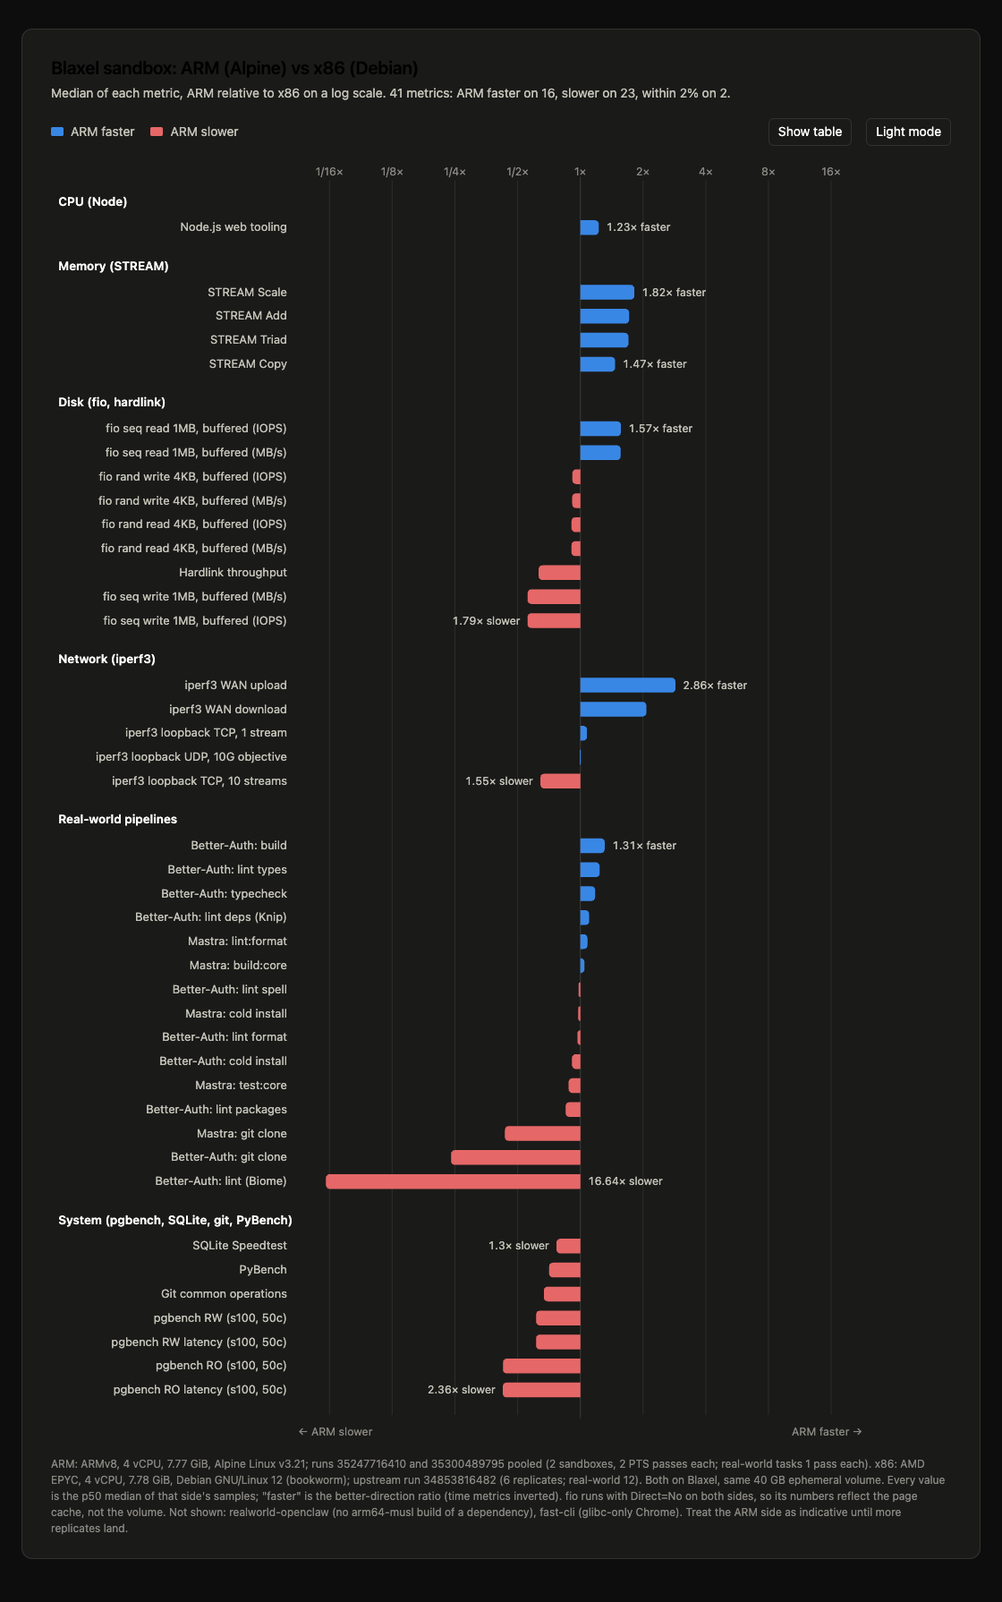
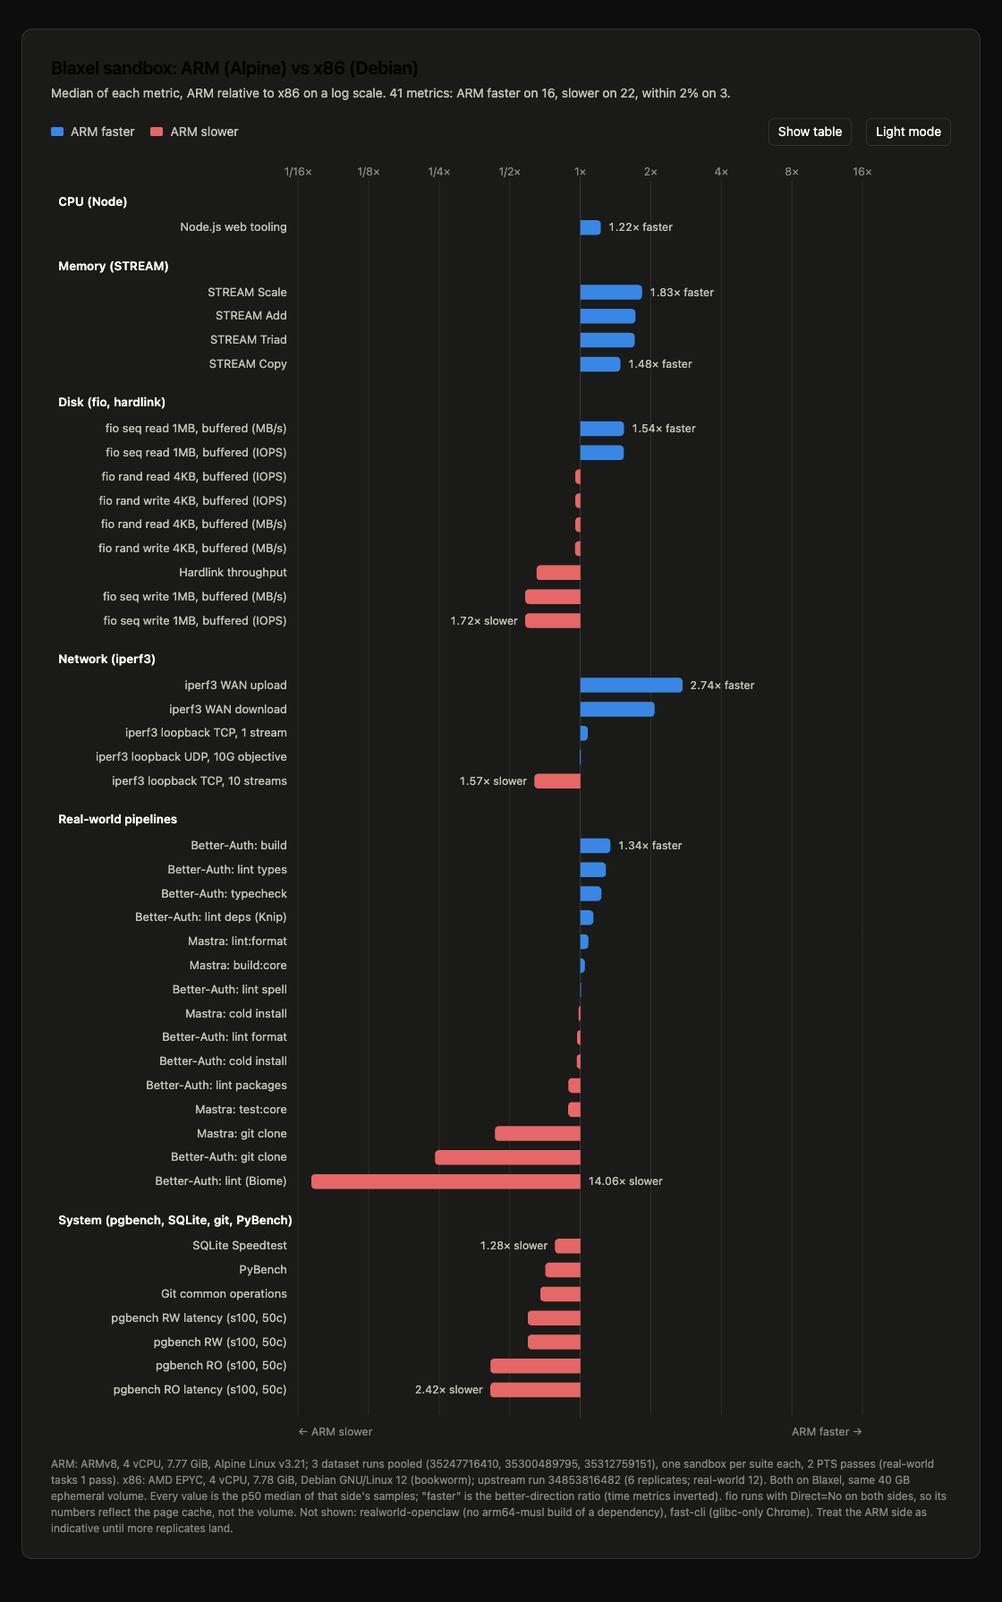
docs(chart): pool the three ARMv8 Alpine runs; exclude the x86 Alpine run
Run 35398728363 booted blaxel/base-image on Intel Xeon hosts (every cell
reported x86_64), so the pool now filters Alpine runs by cpuModel ARMv8 and
lists the runs it used in the footnote.

diff --git a/docs/arm-vs-x86.html b/docs/arm-vs-x86.html
@@ -87,7 +87,7 @@
   </div>
 </div>
 
-<script id="data" type="application/json">{"rows":[{"id":"node_web_tooling_runs_per_s","dimension":"cpu","label":"Node.js web tooling","unit":"runs/s","direction":"HIB","arm":24.795,"x86":20.22,"nArm":4,"nX86":6,"ratio":1.2262611275964392,"pct":22.626112759643924},{"id":"fio_type_sequential_read_engine_linux_aio_direct_no_block_size_1mb_job_count_1_disk_target_default_test_directory_iops","dimension":"disk","label":"fio seq read 1MB, buffered (IOPS)","unit":"IOPS","direction":"HIB","arm":11700,"x86":7469.5,"nArm":2,"nX86":6,"ratio":1.5663699042773946,"pct":56.63699042773946},{"id":"fio_type_sequential_read_engine_linux_aio_direct_no_block_size_1mb_job_count_1_disk_target_default_test_directory_mb_per_s","dimension":"disk","label":"fio seq read 1MB, buffered (MB/s)","unit":"MB/s","direction":"HIB","arm":12240.6567936,"x86":7834.435584000001,"nArm":2,"nX86":6,"ratio":1.5624171853041555,"pct":56.241718530415554},{"id":"fio_type_random_write_engine_linux_aio_direct_no_block_size_4kb_job_count_1_disk_target_default_test_directory_iops","dimension":"disk","label":"fio rand write 4KB, buffered (IOPS)","unit":"IOPS","direction":"HIB","arm":273000,"x86":298000,"nArm":2,"nX86":6,"ratio":0.9161073825503355,"pct":-8.389261744966447},{"id":"fio_type_random_write_engine_linux_aio_direct_no_block_size_4kb_job_count_1_disk_target_default_test_directory_mb_per_s","dimension":"disk","label":"fio rand write 4KB, buffered (MB/s)","unit":"MB/s","direction":"HIB","arm":1116.73344,"x86":1221.0667520000002,"nArm":2,"nX86":6,"ratio":0.914555603263203,"pct":-8.544439673679705},{"id":"fio_type_random_read_engine_linux_aio_direct_no_block_size_4kb_job_count_1_disk_target_default_test_directory_iops","dimension":"disk","label":"fio rand read 4KB, buffered (IOPS)","unit":"IOPS","direction":"HIB","arm":52450,"x86":57800,"nArm":2,"nX86":6,"ratio":0.907439446366782,"pct":-9.256055363321803},{"id":"fio_type_random_read_engine_linux_aio_direct_no_block_size_4kb_job_count_1_disk_target_default_test_directory_mb_per_s","dimension":"disk","label":"fio rand read 4KB, buffered (MB/s)","unit":"MB/s","direction":"HIB","arm":214.95808,"x86":236.97817600000002,"nArm":2,"nX86":6,"ratio":0.907079646017699,"pct":-9.292035398230103},{"id":"hardlink_bogo_ops_per_s","dimension":"disk","label":"Hardlink throughput","unit":"bogo ops/s","direction":"HIB","arm":12.79,"x86":20.27,"nArm":2,"nX86":6,"ratio":0.6309817464232856,"pct":-36.901825357671434},{"id":"fio_type_sequential_write_engine_linux_aio_direct_no_block_size_1mb_job_count_1_disk_target_default_test_directory_mb_per_s","dimension":"disk","label":"fio seq write 1MB, buffered (MB/s)","unit":"MB/s","direction":"HIB","arm":1947.72992,"x86":3489.6609280000002,"nArm":2,"nX86":6,"ratio":0.5581430288461539,"pct":-44.18569711538461},{"id":"fio_type_sequential_write_engine_linux_aio_direct_no_block_size_1mb_job_count_1_disk_target_default_test_directory_iops","dimension":"disk","label":"fio seq write 1MB, buffered (IOPS)","unit":"IOPS","direction":"HIB","arm":1856,"x86":3326,"nArm":2,"nX86":6,"ratio":0.5580276608538786,"pct":-44.19723391461214},{"id":"stream_type_scale","dimension":"memory","label":"STREAM Scale","unit":"MB/s","direction":"HIB","arm":137756.25,"x86":75752.85,"nArm":4,"nX86":6,"ratio":1.8184959377765983,"pct":81.84959377765983},{"id":"stream_type_add","dimension":"memory","label":"STREAM Add","unit":"MB/s","direction":"HIB","arm":140072.15000000002,"x86":81589.65,"nArm":4,"nX86":6,"ratio":1.7167882200744828,"pct":71.67882200744829},{"id":"stream_type_triad","dimension":"memory","label":"STREAM Triad","unit":"MB/s","direction":"HIB","arm":140028.65000000002,"x86":82211.5,"nArm":4,"nX86":6,"ratio":1.703273264689247,"pct":70.3273264689247},{"id":"stream_type_copy","dimension":"memory","label":"STREAM Copy","unit":"MB/s","direction":"HIB","arm":138765.55,"x86":94423.04999999999,"nArm":4,"nX86":6,"ratio":1.4696152051855982,"pct":46.961520518559816},{"id":"iperf_wan_direction_upload","dimension":"network","label":"iperf3 WAN upload","unit":"Mbits/sec","direction":"HIB","arm":6447.9400000000005,"x86":2250.645,"nArm":4,"nX86":6,"ratio":2.86492983122616,"pct":186.492983122616},{"id":"iperf_wan_direction_download","dimension":"network","label":"iperf3 WAN download","unit":"Mbits/sec","direction":"HIB","arm":3896.505,"x86":1877.52,"nArm":4,"nX86":6,"ratio":2.075346733989518,"pct":107.53467339895182},{"id":"iperf_server_address_localhost_server_port_5201_duration_10_seconds_test_tcp_parallel_1","dimension":"network","label":"iperf3 loopback TCP, 1 stream","unit":"Mbits/sec","direction":"HIB","arm":92958.5,"x86":86368,"nArm":4,"nX86":6,"ratio":1.0763071971100409,"pct":7.630719711004086},{"id":"iperf_server_address_localhost_server_port_5201_duration_10_seconds_test_udp_10000mbit_objective_parallel_1","dimension":"network","label":"iperf3 loopback UDP, 10G objective","unit":"Mbits/sec","direction":"HIB","arm":9999,"x86":9999,"nArm":4,"nX86":6,"ratio":1,"pct":0},{"id":"iperf_server_address_localhost_server_port_5201_duration_10_seconds_test_tcp_parallel_10","dimension":"network","label":"iperf3 loopback TCP, 10 streams","unit":"Mbits/sec","direction":"HIB","arm":66917,"x86":103996.5,"nArm":4,"nX86":6,"ratio":0.643454347021294,"pct":-35.6545652978706},{"id":"realworld_better_auth_task_build","dimension":"realworld","label":"Better-Auth: build","unit":"Seconds","direction":"LIB","arm":58.342,"x86":76.38149999999999,"nArm":2,"nX86":12,"ratio":1.3092026327517052,"pct":30.920263275170523},{"id":"realworld_better_auth_task_lint_types","dimension":"realworld","label":"Better-Auth: lint types","unit":"Seconds","direction":"LIB","arm":29.746499999999997,"x86":36.855999999999995,"nArm":2,"nX86":12,"ratio":1.2390029079051317,"pct":23.900290790513168},{"id":"realworld_better_auth_task_typecheck","dimension":"realworld","label":"Better-Auth: typecheck","unit":"Seconds","direction":"LIB","arm":42.5235,"x86":50.1205,"nArm":2,"nX86":12,"ratio":1.1786541559373054,"pct":17.86541559373054},{"id":"realworld_better_auth_task_lint_deps_knip","dimension":"realworld","label":"Better-Auth: lint deps (Knip)","unit":"Seconds","direction":"LIB","arm":10.133500000000002,"x86":11.1785,"nArm":2,"nX86":12,"ratio":1.103123303893028,"pct":10.312330389302794},{"id":"realworld_mastra_task_lint_format","dimension":"realworld","label":"Mastra: lint:format","unit":"Seconds","direction":"LIB","arm":87.0995,"x86":94.27250000000001,"nArm":2,"nX86":12,"ratio":1.0823540892886871,"pct":8.235408928868715},{"id":"realworld_mastra_task_build_core","dimension":"realworld","label":"Mastra: build:core","unit":"Seconds","direction":"LIB","arm":72.5695,"x86":75.985,"nArm":2,"nX86":12,"ratio":1.0470652271270988,"pct":4.706522712709882},{"id":"realworld_better_auth_task_lint_spell","dimension":"realworld","label":"Better-Auth: lint spell","unit":"Seconds","direction":"LIB","arm":7.73,"x86":7.577999999999999,"nArm":2,"nX86":12,"ratio":0.9803363518758084,"pct":-1.9663648124191635},{"id":"realworld_mastra_task_cold_install","dimension":"realworld","label":"Mastra: cold install","unit":"Seconds","direction":"LIB","arm":41.8275,"x86":40.8705,"nArm":2,"nX86":12,"ratio":0.977120315581854,"pct":-2.287968441814603},{"id":"realworld_better_auth_task_lint_format","dimension":"realworld","label":"Better-Auth: lint format","unit":"Seconds","direction":"LIB","arm":3.318,"x86":3.218,"nArm":2,"nX86":12,"ratio":0.9698613622664255,"pct":-3.0138637733574503},{"id":"realworld_better_auth_task_cold_install","dimension":"realworld","label":"Better-Auth: cold install","unit":"Seconds","direction":"LIB","arm":14.564,"x86":13.283,"nArm":2,"nX86":12,"ratio":0.9120433946717934,"pct":-8.795660532820659},{"id":"realworld_mastra_task_test_core","dimension":"realworld","label":"Mastra: test:core","unit":"Seconds","direction":"LIB","arm":1067.901,"x86":938.6735,"nArm":2,"nX86":12,"ratio":0.8789892508762516,"pct":-12.101074912374843},{"id":"realworld_better_auth_task_lint_packages","dimension":"realworld","label":"Better-Auth: lint packages","unit":"Seconds","direction":"LIB","arm":3.25,"x86":2.7635,"nArm":2,"nX86":12,"ratio":0.8503076923076923,"pct":-14.969230769230768},{"id":"realworld_mastra_task_git_clone","dimension":"realworld","label":"Mastra: git clone","unit":"Seconds","direction":"LIB","arm":5.9725,"x86":2.595,"nArm":2,"nX86":12,"ratio":0.4344914190037673,"pct":-56.55085809962327},{"id":"realworld_better_auth_task_git_clone","dimension":"realworld","label":"Better-Auth: git clone","unit":"Seconds","direction":"LIB","arm":3.2085,"x86":0.7685,"nArm":2,"nX86":12,"ratio":0.23952002493376967,"pct":-76.04799750662303},{"id":"realworld_better_auth_task_lint_biome","dimension":"realworld","label":"Better-Auth: lint (Biome)","unit":"Seconds","direction":"LIB","arm":56.6875,"x86":3.4065000000000003,"nArm":2,"nX86":12,"ratio":0.06009261300992283,"pct":-93.99073869900772},{"id":"sqlite_speedtest_seconds","dimension":"system","label":"SQLite Speedtest","unit":"Seconds","direction":"LIB","arm":52.3055,"x86":40.1845,"nArm":4,"nX86":6,"ratio":0.7682652875892593,"pct":-23.173471241074072},{"id":"pybench_milliseconds","dimension":"system","label":"PyBench","unit":"Milliseconds","direction":"LIB","arm":668,"x86":473.5,"nArm":4,"nX86":6,"ratio":0.7088323353293413,"pct":-29.11676646706587},{"id":"git_seconds","dimension":"system","label":"Git common operations","unit":"Seconds","direction":"LIB","arm":61.471000000000004,"x86":41.0995,"nArm":4,"nX86":6,"ratio":0.6685998275609637,"pct":-33.14001724390363},{"id":"pgbench_scaling_factor_100_clients_50_mode_read_write","dimension":"system","label":"pgbench RW (s100, 50c)","unit":"TPS","direction":"HIB","arm":15382.6655245,"x86":25073.764670999997,"nArm":4,"nX86":6,"ratio":0.6134964464387511,"pct":-38.65035535612489},{"id":"pgbench_scaling_factor_100_clients_50_mode_read_write_average_latency","dimension":"system","label":"pgbench RW latency (s100, 50c)","unit":"ms","direction":"LIB","arm":3.2515,"x86":1.9945,"nArm":4,"nX86":6,"ratio":0.613409195755805,"pct":-38.6590804244195},{"id":"pgbench_scaling_factor_100_clients_50_mode_read_only","dimension":"system","label":"pgbench RO (s100, 50c)","unit":"TPS","direction":"HIB","arm":137940.54658249998,"x86":324321.7702985,"nArm":4,"nX86":6,"ratio":0.4253200346542939,"pct":-57.46799653457061},{"id":"pgbench_scaling_factor_100_clients_50_mode_read_only_average_latency","dimension":"system","label":"pgbench RO latency (s100, 50c)","unit":"ms","direction":"LIB","arm":0.363,"x86":0.154,"nArm":4,"nX86":6,"ratio":0.42424242424242425,"pct":-57.57575757575757}],"armSpec":{"cpuModel":"ARMv8","detectedIsolation":"unknown","diskGb":40.2,"hostMemoryGb":8,"hostVcpus":4,"kernel":"6.1.166","memoryGb":7.77,"os":"Alpine Linux v3.21","vcpus":4,"virtualization":"unknown","asnSource":"ipinfo","city":"Ashburn","country":"US","egressAsn":"AS14618","egressOrg":"AS14618 Amazon.com, Inc.","egressOrgName":"Amazon.com, Inc.","geoSource":"ipinfo","location":"39.0437,-77.4875","region":"Virginia","timezone":"America/New_York"},"x86Spec":{"cpuModel":"AMD EPYC","detectedIsolation":"vm","diskGb":40.2,"hostMemoryGb":8,"hostVcpus":4,"kernel":"6.1.166","memoryGb":7.78,"os":"Debian GNU/Linux 12 (bookworm)","vcpus":4,"virtualization":"kvm","asnSource":"cymru","city":"Ashburn","country":"US","egressAsn":"AS396356","egressOrg":"AS396356 Latitude.sh","egressOrgName":"Latitude.sh","geoSource":"ipinfo","location":"39.0437,-77.4875","networkPrefix":"2605:6440:d000::/36","region":"Virginia","timezone":"America/New_York"}}</script>
+<script id="data" type="application/json">{"rows":[{"id":"node_web_tooling_runs_per_s","dimension":"cpu","label":"Node.js web tooling","unit":"runs/s","direction":"HIB","arm":24.745,"x86":20.22,"nArm":6,"nX86":6,"ratio":1.223788328387735,"pct":22.378832838773512},{"id":"fio_type_sequential_read_engine_linux_aio_direct_no_block_size_1mb_job_count_1_disk_target_default_test_directory_mb_per_s","dimension":"disk","label":"fio seq read 1MB, buffered (MB/s)","unit":"MB/s","direction":"HIB","arm":12025.9084288,"x86":7834.435584000001,"nArm":4,"nX86":6,"ratio":1.535006357491802,"pct":53.500635749180205},{"id":"fio_type_sequential_read_engine_linux_aio_direct_no_block_size_1mb_job_count_1_disk_target_default_test_directory_iops","dimension":"disk","label":"fio seq read 1MB, buffered (IOPS)","unit":"IOPS","direction":"HIB","arm":11450,"x86":7469.5,"nArm":4,"nX86":6,"ratio":1.532900461878305,"pct":53.29004618783051},{"id":"fio_type_random_read_engine_linux_aio_direct_no_block_size_4kb_job_count_1_disk_target_default_test_directory_iops","dimension":"disk","label":"fio rand read 4KB, buffered (IOPS)","unit":"IOPS","direction":"HIB","arm":55000,"x86":57800,"nArm":4,"nX86":6,"ratio":0.9515570934256056,"pct":-4.844290657439442},{"id":"fio_type_random_write_engine_linux_aio_direct_no_block_size_4kb_job_count_1_disk_target_default_test_directory_iops","dimension":"disk","label":"fio rand write 4KB, buffered (IOPS)","unit":"IOPS","direction":"HIB","arm":283500,"x86":298000,"nArm":4,"nX86":6,"ratio":0.9513422818791947,"pct":-4.865771812080533},{"id":"fio_type_random_read_engine_linux_aio_direct_no_block_size_4kb_job_count_1_disk_target_default_test_directory_mb_per_s","dimension":"disk","label":"fio rand read 4KB, buffered (MB/s)","unit":"MB/s","direction":"HIB","arm":225.44384,"x86":236.97817600000002,"nArm":4,"nX86":6,"ratio":0.9513274336283185,"pct":-4.867256637168149},{"id":"fio_type_random_write_engine_linux_aio_direct_no_block_size_4kb_job_count_1_disk_target_default_test_directory_mb_per_s","dimension":"disk","label":"fio rand write 4KB, buffered (MB/s)","unit":"MB/s","direction":"HIB","arm":1159.200768,"x86":1221.0667520000002,"nArm":4,"nX86":6,"ratio":0.949334478316874,"pct":-5.066552168312599},{"id":"hardlink_bogo_ops_per_s","dimension":"disk","label":"Hardlink throughput","unit":"bogo ops/s","direction":"HIB","arm":13.175,"x86":20.27,"nArm":4,"nX86":6,"ratio":0.6499753330044401,"pct":-35.00246669955599},{"id":"fio_type_sequential_write_engine_linux_aio_direct_no_block_size_1mb_job_count_1_disk_target_default_test_directory_mb_per_s","dimension":"disk","label":"fio seq write 1MB, buffered (MB/s)","unit":"MB/s","direction":"HIB","arm":2029.518848,"x86":3489.6609280000002,"nArm":4,"nX86":6,"ratio":0.5815805288461537,"pct":-41.84194711538463},{"id":"fio_type_sequential_write_engine_linux_aio_direct_no_block_size_1mb_job_count_1_disk_target_default_test_directory_iops","dimension":"disk","label":"fio seq write 1MB, buffered (IOPS)","unit":"IOPS","direction":"HIB","arm":1933.5,"x86":3326,"nArm":4,"nX86":6,"ratio":0.5813289236319904,"pct":-41.86710763680096},{"id":"stream_type_scale","dimension":"memory","label":"STREAM Scale","unit":"MB/s","direction":"HIB","arm":138921.3,"x86":75752.85,"nArm":6,"nX86":6,"ratio":1.8338755571572551,"pct":83.38755571572551},{"id":"stream_type_add","dimension":"memory","label":"STREAM Add","unit":"MB/s","direction":"HIB","arm":140233.5,"x86":81589.65,"nArm":6,"nX86":6,"ratio":1.7187657993385193,"pct":71.87657993385193},{"id":"stream_type_triad","dimension":"memory","label":"STREAM Triad","unit":"MB/s","direction":"HIB","arm":140225.05,"x86":82211.5,"nArm":6,"nX86":6,"ratio":1.705662224871216,"pct":70.5662224871216},{"id":"stream_type_copy","dimension":"memory","label":"STREAM Copy","unit":"MB/s","direction":"HIB","arm":139966.34999999998,"x86":94423.04999999999,"nArm":6,"nX86":6,"ratio":1.4823324389542596,"pct":48.23324389542596},{"id":"iperf_wan_direction_upload","dimension":"network","label":"iperf3 WAN upload","unit":"Mbits/sec","direction":"HIB","arm":6156.985000000001,"x86":2250.645,"nArm":6,"nX86":6,"ratio":2.735653557091412,"pct":173.5653557091412},{"id":"iperf_wan_direction_download","dimension":"network","label":"iperf3 WAN download","unit":"Mbits/sec","direction":"HIB","arm":3896.505,"x86":1877.52,"nArm":6,"nX86":6,"ratio":2.075346733989518,"pct":107.53467339895182},{"id":"iperf_server_address_localhost_server_port_5201_duration_10_seconds_test_tcp_parallel_1","dimension":"network","label":"iperf3 loopback TCP, 1 stream","unit":"Mbits/sec","direction":"HIB","arm":93002.5,"x86":86368,"nArm":6,"nX86":6,"ratio":1.0768166450537235,"pct":7.681664505372354},{"id":"iperf_server_address_localhost_server_port_5201_duration_10_seconds_test_udp_10000mbit_objective_parallel_1","dimension":"network","label":"iperf3 loopback UDP, 10G objective","unit":"Mbits/sec","direction":"HIB","arm":9999,"x86":9999,"nArm":6,"nX86":6,"ratio":1,"pct":0},{"id":"iperf_server_address_localhost_server_port_5201_duration_10_seconds_test_tcp_parallel_10","dimension":"network","label":"iperf3 loopback TCP, 10 streams","unit":"Mbits/sec","direction":"HIB","arm":66231.5,"x86":103996.5,"nArm":6,"nX86":6,"ratio":0.6368627790358329,"pct":-36.31372209641671},{"id":"realworld_better_auth_task_build","dimension":"realworld","label":"Better-Auth: build","unit":"Seconds","direction":"LIB","arm":56.838,"x86":76.38149999999999,"nArm":3,"nX86":12,"ratio":1.3438456666314786,"pct":34.384566663147865},{"id":"realworld_better_auth_task_lint_types","dimension":"realworld","label":"Better-Auth: lint types","unit":"Seconds","direction":"LIB","arm":28.66,"x86":36.855999999999995,"nArm":3,"nX86":12,"ratio":1.2859734822051638,"pct":28.597348220516384},{"id":"realworld_better_auth_task_typecheck","dimension":"realworld","label":"Better-Auth: typecheck","unit":"Seconds","direction":"LIB","arm":40.757,"x86":50.1205,"nArm":3,"nX86":12,"ratio":1.229739676619967,"pct":22.97396766199671},{"id":"realworld_better_auth_task_lint_deps_knip","dimension":"realworld","label":"Better-Auth: lint deps (Knip)","unit":"Seconds","direction":"LIB","arm":9.826,"x86":11.1785,"nArm":3,"nX86":12,"ratio":1.1376450234072868,"pct":13.76450234072868},{"id":"realworld_mastra_task_lint_format","dimension":"realworld","label":"Mastra: lint:format","unit":"Seconds","direction":"LIB","arm":87.076,"x86":94.27250000000001,"nArm":3,"nX86":12,"ratio":1.0826461941292667,"pct":8.264619412926667},{"id":"realworld_mastra_task_build_core","dimension":"realworld","label":"Mastra: build:core","unit":"Seconds","direction":"LIB","arm":72.715,"x86":75.985,"nArm":3,"nX86":12,"ratio":1.0449700887024684,"pct":4.497008870246844},{"id":"realworld_better_auth_task_lint_spell","dimension":"realworld","label":"Better-Auth: lint spell","unit":"Seconds","direction":"LIB","arm":7.522,"x86":7.577999999999999,"nArm":3,"nX86":12,"ratio":1.0074448285030575,"pct":0.7444828503057499},{"id":"realworld_mastra_task_cold_install","dimension":"realworld","label":"Mastra: cold install","unit":"Seconds","direction":"LIB","arm":41.522,"x86":40.8705,"nArm":3,"nX86":12,"ratio":0.9843095226626849,"pct":-1.56904773373151},{"id":"realworld_better_auth_task_lint_format","dimension":"realworld","label":"Better-Auth: lint format","unit":"Seconds","direction":"LIB","arm":3.324,"x86":3.218,"nArm":3,"nX86":12,"ratio":0.9681107099879663,"pct":-3.1889290012033666},{"id":"realworld_better_auth_task_cold_install","dimension":"realworld","label":"Better-Auth: cold install","unit":"Seconds","direction":"LIB","arm":13.752,"x86":13.283,"nArm":3,"nX86":12,"ratio":0.9658958696916812,"pct":-3.4104130308318825},{"id":"realworld_better_auth_task_lint_packages","dimension":"realworld","label":"Better-Auth: lint packages","unit":"Seconds","direction":"LIB","arm":3.11,"x86":2.7635,"nArm":3,"nX86":12,"ratio":0.8885852090032155,"pct":-11.141479099678453},{"id":"realworld_mastra_task_test_core","dimension":"realworld","label":"Mastra: test:core","unit":"Seconds","direction":"LIB","arm":1057.31,"x86":938.6735,"nArm":3,"nX86":12,"ratio":0.8877940244582951,"pct":-11.220597554170485},{"id":"realworld_mastra_task_git_clone","dimension":"realworld","label":"Mastra: git clone","unit":"Seconds","direction":"LIB","arm":6.002,"x86":2.595,"nArm":3,"nX86":12,"ratio":0.4323558813728758,"pct":-56.764411862712414},{"id":"realworld_better_auth_task_git_clone","dimension":"realworld","label":"Better-Auth: git clone","unit":"Seconds","direction":"LIB","arm":3.203,"x86":0.7685,"nArm":3,"nX86":12,"ratio":0.23993131439275678,"pct":-76.00686856072431},{"id":"realworld_better_auth_task_lint_biome","dimension":"realworld","label":"Better-Auth: lint (Biome)","unit":"Seconds","direction":"LIB","arm":47.9,"x86":3.4065000000000003,"nArm":3,"nX86":12,"ratio":0.0711169102296451,"pct":-92.88830897703549},{"id":"sqlite_speedtest_seconds","dimension":"system","label":"SQLite Speedtest","unit":"Seconds","direction":"LIB","arm":51.528000000000006,"x86":40.1845,"nArm":6,"nX86":6,"ratio":0.7798575531749727,"pct":-22.014244682502728},{"id":"pybench_milliseconds","dimension":"system","label":"PyBench","unit":"Milliseconds","direction":"LIB","arm":668,"x86":473.5,"nArm":6,"nX86":6,"ratio":0.7088323353293413,"pct":-29.11676646706587},{"id":"git_seconds","dimension":"system","label":"Git common operations","unit":"Seconds","direction":"LIB","arm":60.884,"x86":41.0995,"nArm":6,"nX86":6,"ratio":0.6750459890940148,"pct":-32.49540109059852},{"id":"pgbench_scaling_factor_100_clients_50_mode_read_write_average_latency","dimension":"system","label":"pgbench RW latency (s100, 50c)","unit":"ms","direction":"LIB","arm":3.3415,"x86":1.9945,"nArm":6,"nX86":6,"ratio":0.596887625317971,"pct":-40.3112374682029},{"id":"pgbench_scaling_factor_100_clients_50_mode_read_write","dimension":"system","label":"pgbench RW (s100, 50c)","unit":"TPS","direction":"HIB","arm":14965.489193000001,"x86":25073.764670999997,"nArm":6,"nX86":6,"ratio":0.5968584849290262,"pct":-40.314151507097385},{"id":"pgbench_scaling_factor_100_clients_50_mode_read_only","dimension":"system","label":"pgbench RO (s100, 50c)","unit":"TPS","direction":"HIB","arm":134043.1848245,"x86":324321.7702985,"nArm":6,"nX86":6,"ratio":0.4133030746012795,"pct":-58.669692539872045},{"id":"pgbench_scaling_factor_100_clients_50_mode_read_only_average_latency","dimension":"system","label":"pgbench RO latency (s100, 50c)","unit":"ms","direction":"LIB","arm":0.373,"x86":0.154,"nArm":6,"nX86":6,"ratio":0.4128686327077748,"pct":-58.71313672922251}],"armSpec":{"cpuModel":"ARMv8","detectedIsolation":"unknown","diskGb":40.2,"hostMemoryGb":8,"hostVcpus":4,"kernel":"6.1.166","memoryGb":7.77,"os":"Alpine Linux v3.21","vcpus":4,"virtualization":"unknown","asnSource":"ipinfo","city":"Ashburn","country":"US","egressAsn":"AS14618","egressOrg":"AS14618 Amazon.com, Inc.","egressOrgName":"Amazon.com, Inc.","geoSource":"ipinfo","location":"39.0437,-77.4875","region":"Virginia","timezone":"America/New_York"},"x86Spec":{"cpuModel":"AMD EPYC","detectedIsolation":"vm","diskGb":40.2,"hostMemoryGb":8,"hostVcpus":4,"kernel":"6.1.166","memoryGb":7.78,"os":"Debian GNU/Linux 12 (bookworm)","vcpus":4,"virtualization":"kvm","asnSource":"cymru","city":"Ashburn","country":"US","egressAsn":"AS396356","egressOrg":"AS396356 Latitude.sh","egressOrgName":"Latitude.sh","geoSource":"ipinfo","location":"39.0437,-77.4875","networkPrefix":"2605:6440:d000::/36","region":"Virginia","timezone":"America/New_York"},"armRuns":["35247716410","35300489795","35312759151"]}</script>
 <script>
 (() => {
   const DATA = JSON.parse(document.getElementById("data").textContent);
@@ -169,7 +169,7 @@
   document.getElementById("subtitle").textContent =
     `Median of each metric, ARM relative to x86 on a log scale. ${rows.length} metrics: ARM faster on ${faster}, slower on ${slower}, within 2% on ${rows.length - faster - slower}.`;
   document.getElementById("note").innerHTML =
-    `ARM: ${esc(a.cpuModel)}, ${a.vcpus} vCPU, ${a.memoryGb} GiB, ${esc(a.os)}; runs 35247716410 and 35300489795 pooled (2 sandboxes, 2 PTS passes each; real-world tasks 1 pass each). ` +
+    `ARM: ${esc(a.cpuModel)}, ${a.vcpus} vCPU, ${a.memoryGb} GiB, ${esc(a.os)}; ${(DATA.armRuns ?? []).length} dataset runs pooled (${(DATA.armRuns ?? []).join(", ")}), one sandbox per suite each, 2 PTS passes (real-world tasks 1 pass). ` +
     `x86: ${esc(b.cpuModel)}, ${b.vcpus} vCPU, ${b.memoryGb} GiB, ${esc(b.os)}; upstream run 34853816482 (6 replicates; real-world 12). ` +
     `Both on Blaxel, same 40 GB ephemeral volume. Every value is the p50 median of that side's samples; "faster" is the better-direction ratio (time metrics inverted). ` +
     `fio runs with Direct=No on both sides, so its numbers reflect the page cache, not the volume. ` +
